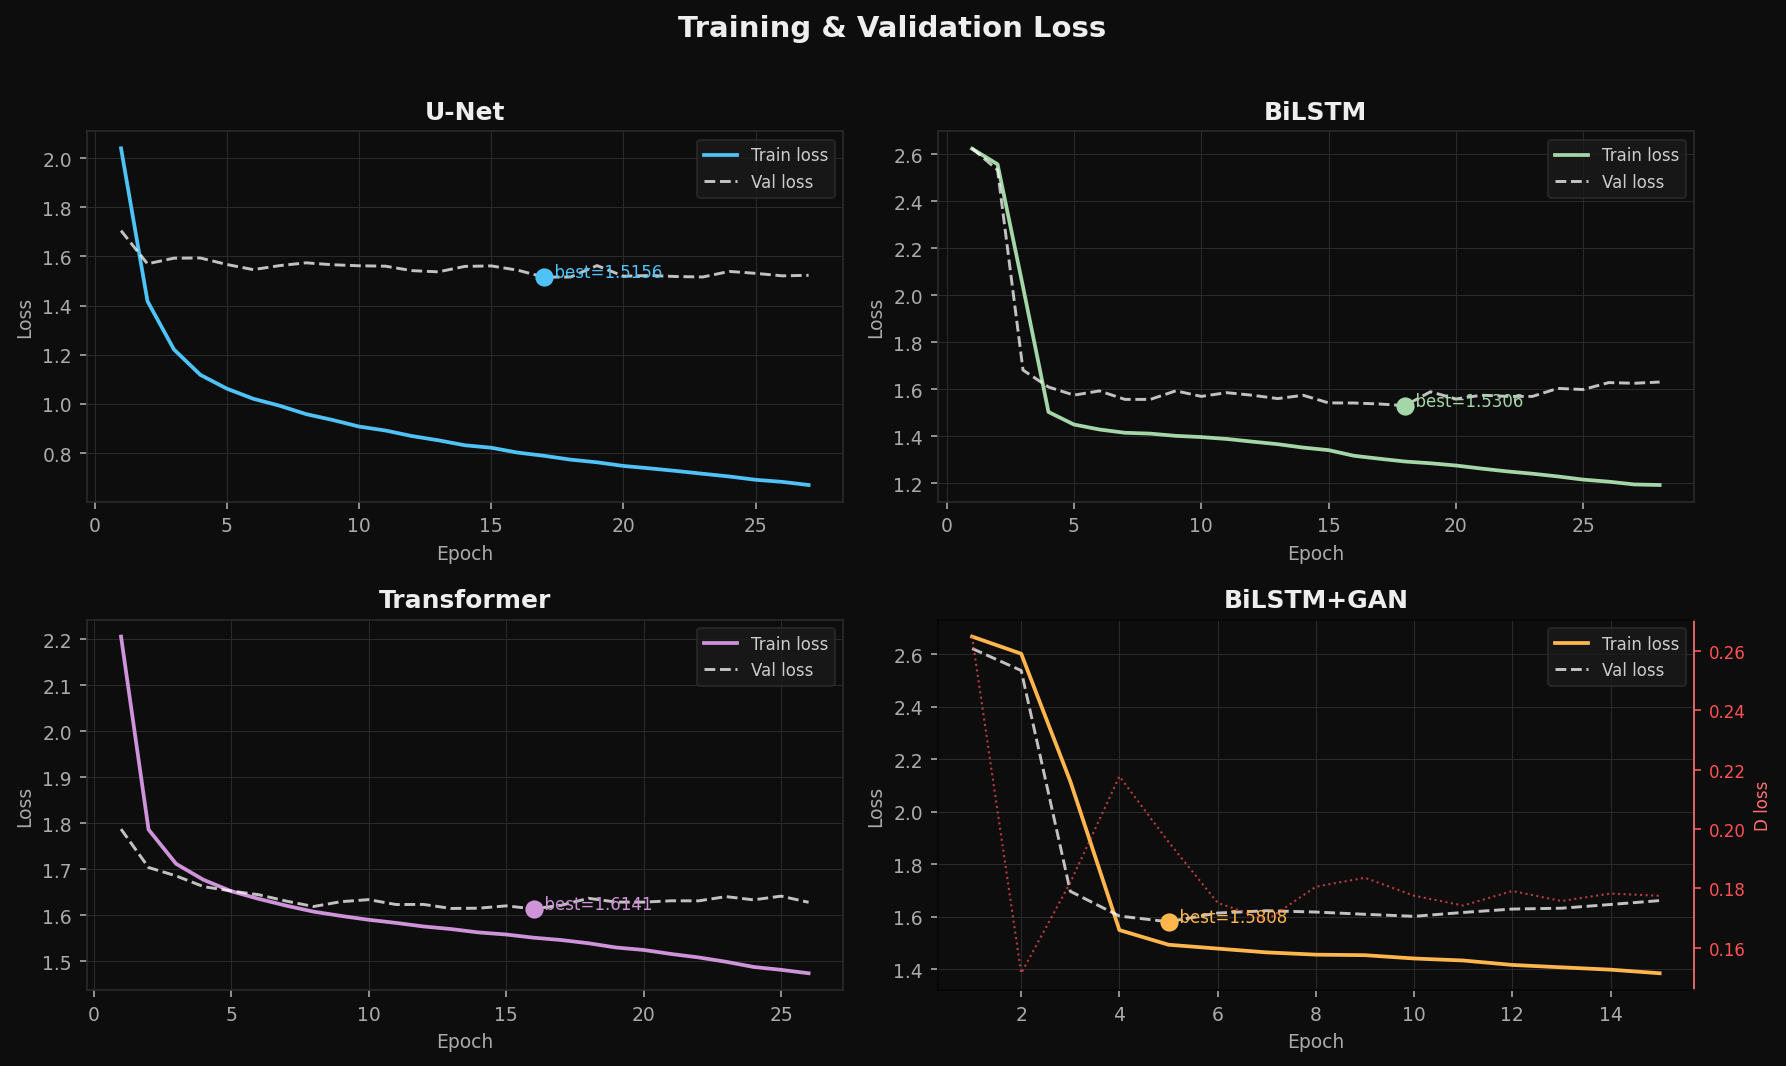
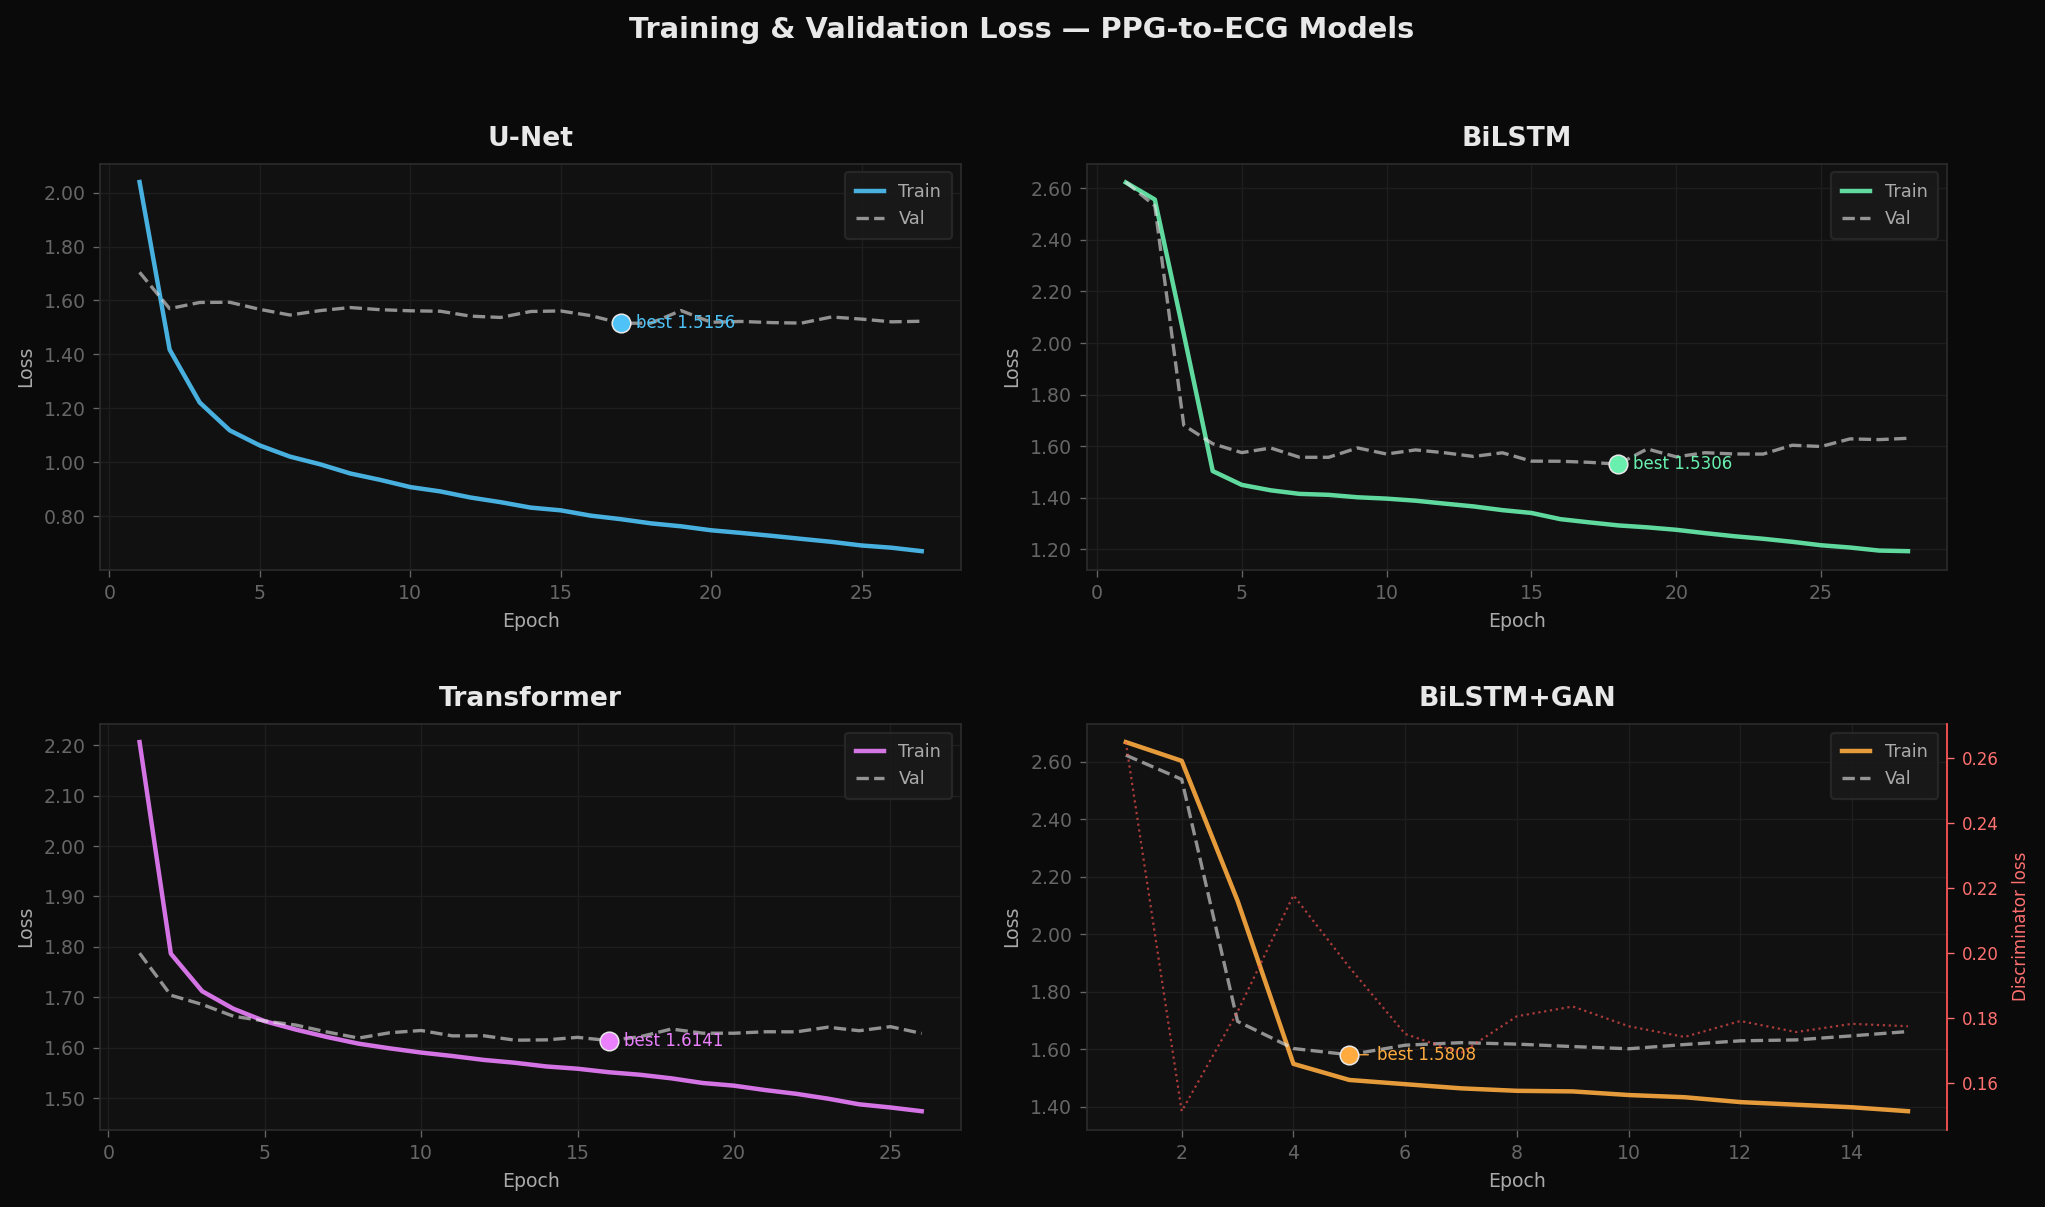
Fix README formatting and improve training curves figure

diff --git a/scripts/gen_training_curves.py b/scripts/gen_training_curves.py
@@ -4,23 +4,33 @@ from pathlib import Path
 import matplotlib
 matplotlib.use("Agg")
 import matplotlib.pyplot as plt
+import matplotlib.ticker as ticker
 import numpy as np
 
-ROOT = Path(__file__).resolve().parents[1]
+ROOT    = Path(__file__).resolve().parents[1]
 RESULTS = ROOT / "results"
-OUT = ROOT / "report" / "training_curves.png"
+OUT     = ROOT / "report" / "training_curves.png"
 
 MODELS = {
     "unet":        ("U-Net",        "#4fc3f7"),
-    "bilstm":      ("BiLSTM",       "#a5d6a7"),
-    "transformer": ("Transformer",  "#ce93d8"),
-    "bilstm_gan":  ("BiLSTM+GAN",   "#ffb74d"),
+    "bilstm":      ("BiLSTM",       "#69f0ae"),
+    "transformer": ("Transformer",  "#ea80fc"),
+    "bilstm_gan":  ("BiLSTM+GAN",   "#ffab40"),
 }
 
-BG = "#0d0d0d"
-GRID = "#2a2a2a"
+BG      = "#0a0a0a"
+PANEL   = "#111111"
+GRID    = "#1e1e1e"
+TICK    = "#666666"
+LABEL   = "#aaaaaa"
+WHITE   = "#e8e8e8"
 
-fig, axes = plt.subplots(2, 2, figsize=(12, 7))
+plt.rcParams.update({
+    "font.family":  "DejaVu Sans",
+    "axes.unicode_minus": False,
+})
+
+fig, axes = plt.subplots(2, 2, figsize=(13, 7.5))
 fig.patch.set_facecolor(BG)
 axes = axes.flatten()
 
@@ -36,54 +46,62 @@ for ax, (key, (name, color)) in zip(axes, MODELS.items()):
     history    = data["history"]
     epochs     = [h["epoch"] for h in history]
     val_loss   = [h["val_loss"] for h in history]
-
-    # GAN uses g_loss as train loss
     train_loss = [h.get("train_loss") or h.get("g_loss") for h in history]
 
-    ax.set_facecolor(BG)
+    # Panel styling
+    ax.set_facecolor(PANEL)
     for spine in ax.spines.values():
-        spine.set_edgecolor(GRID)
-    ax.tick_params(colors="#aaaaaa", labelsize=9)
-    ax.grid(True, color=GRID, linewidth=0.5)
-    ax.xaxis.label.set_color("#aaaaaa")
-    ax.yaxis.label.set_color("#aaaaaa")
-    ax.title.set_color("#eeeeee")
+        spine.set_edgecolor("#2a2a2a")
+        spine.set_linewidth(0.8)
+    ax.tick_params(colors=TICK, labelsize=8.5, length=3, width=0.6)
+    ax.grid(True, color=GRID, linewidth=0.6, linestyle="-")
+    ax.set_axisbelow(True)
 
-    ax.plot(epochs, train_loss, color=color,     linewidth=1.8, label="Train loss")
-    ax.plot(epochs, val_loss,   color="white",   linewidth=1.4, linestyle="--", alpha=0.75, label="Val loss")
+    # Loss curves
+    ax.plot(epochs, train_loss, color=color,  linewidth=2.0, label="Train", alpha=0.9)
+    ax.plot(epochs, val_loss,   color=WHITE,  linewidth=1.5, linestyle="--", alpha=0.6, label="Val")
 
-    # Mark best val epoch
+    # Best val marker
     best_idx = int(np.argmin(val_loss))
-    ax.scatter(epochs[best_idx], val_loss[best_idx], color=color, s=60, zorder=5)
-    ax.annotate(f"  best={val_loss[best_idx]:.4f}",
-                xy=(epochs[best_idx], val_loss[best_idx]),
-                color=color, fontsize=8)
+    bx, by   = epochs[best_idx], val_loss[best_idx]
+    ax.scatter(bx, by, color=color, s=70, zorder=6, edgecolors=WHITE, linewidths=0.7)
+    # annotation offset: go left if close to right edge
+    xoff = 0.5 if bx < epochs[-1] * 0.75 else -0.5
+    ha   = "left" if xoff > 0 else "right"
+    ax.annotate(f"best {by:.4f}",
+                xy=(bx, by), xytext=(bx + xoff, by),
+                color=color, fontsize=7.5, ha=ha, va="center",
+                arrowprops=dict(arrowstyle="-", color=color, lw=0.6))
 
-    # GAN: discriminator loss on secondary y-axis
-    d_loss_vals = [h.get("d_loss") for h in history]
-    if any(v is not None for v in d_loss_vals):
-        history_has_d = True
-        d_loss_vals = [v for v in d_loss_vals if v is not None]
-    else:
-        history_has_d = False
-
-    if history_has_d:
+    # GAN discriminator secondary axis
+    d_vals = [h.get("d_loss") for h in history]
+    if any(v is not None for v in d_vals):
+        d_vals = [v for v in d_vals if v is not None]
         ax2 = ax.twinx()
-        ax2.set_facecolor(BG)
-        ax2.tick_params(colors="#ff7070", labelsize=8)
-        ax2.spines["right"].set_edgecolor("#ff7070")
-        ax2.plot(epochs[:len(d_loss_vals)], d_loss_vals, color="#ff5252", linewidth=1.0,
-                 linestyle=":", alpha=0.7, label="Discriminator loss")
-        ax2.set_ylabel("D loss", color="#ff7070", fontsize=8)
-        ax2.yaxis.label.set_color("#ff7070")
-        ax2.tick_params(axis="y", colors="#ff5252")
+        ax2.set_facecolor(PANEL)
+        ax2.spines["right"].set_edgecolor("#ff5252")
+        ax2.spines["right"].set_linewidth(0.8)
+        for s in ["top","left","bottom"]:
+            ax2.spines[s].set_visible(False)
+        ax2.tick_params(axis="y", colors="#ff7070", labelsize=7.5, length=3, width=0.6)
+        ax2.plot(epochs[:len(d_vals)], d_vals, color="#ff5252",
+                 linewidth=1.0, linestyle=":", alpha=0.65, label="Discriminator")
+        ax2.set_ylabel("Discriminator loss", color="#ff7070", fontsize=7.5, labelpad=6)
 
-    ax.set_title(name, fontsize=12, fontweight="bold")
-    ax.set_xlabel("Epoch", fontsize=9)
-    ax.set_ylabel("Loss", fontsize=9)
-    ax.legend(fontsize=8, facecolor="#1a1a1a", edgecolor=GRID, labelcolor="#cccccc")
+    # Axis labels & title
+    ax.set_title(name, color=WHITE, fontsize=12, fontweight="bold", pad=8)
+    ax.set_xlabel("Epoch", color=LABEL, fontsize=8.5, labelpad=4)
+    ax.set_ylabel("Loss", color=LABEL, fontsize=8.5, labelpad=4)
+    ax.yaxis.set_major_formatter(ticker.FormatStrFormatter("%.2f"))
 
-fig.suptitle("Training & Validation Loss", color="#eeeeee", fontsize=14, fontweight="bold", y=1.01)
-plt.tight_layout()
-plt.savefig(OUT, dpi=150, bbox_inches="tight", facecolor=BG)
+    # Legend
+    leg = ax.legend(fontsize=8, facecolor="#1a1a1a", edgecolor="#2a2a2a",
+                    labelcolor=LABEL, loc="upper right",
+                    framealpha=0.85, borderpad=0.6, handlelength=1.6)
+
+fig.suptitle("Training & Validation Loss — PPG-to-ECG Models",
+             color=WHITE, fontsize=13, fontweight="bold", y=1.01)
+
+plt.tight_layout(pad=1.5, h_pad=2.2, w_pad=1.8)
+plt.savefig(OUT, dpi=160, bbox_inches="tight", facecolor=BG)
 print(f"Saved: {OUT}")

diff --git a/README.md b/README.md
@@ -1,6 +1,6 @@
 # PPG-to-ECG Reconstruction
 
-<img width="800" height="336" alt="ezgif-30604901485443b5" src="https://github.com/user-attachments/assets/f604c26a-496a-40db-bd4d-b6db3990387b" />
+<img width="800" height="336" alt="ezgif-30604901485443b5" src="https://github.com/user-attachments/assets/f604c26a-496a40db-bd4d-b6db3990387b" />
 
 Comparative study of deep learning architectures for reconstructing single-lead ECG (Lead II) from photoplethysmography (PPG) signals.  
 Course Project: CMPSCI 8770 Introduction to Neural Networks, University of Missouri.
@@ -9,6 +9,7 @@ Course Project: CMPSCI 8770 Introduction to Neural Networks, University of Misso
 
 <img width="800" height="336" alt="ezgif-39e84b7ef2fda190" src="https://github.com/user-attachments/assets/77b16c34-c7b7-4814-80fe-aea3241b013b" />
 
+---
 
 ## Results
 
@@ -25,7 +26,7 @@ Course Project: CMPSCI 8770 Introduction to Neural Networks, University of Misso
 
 ## Training Curves
 
-![Training and Validation Loss](report/trainingcurves.png)
+![Training and Validation Loss](report/training_curves.png)
 
 | Model       | Best Val Loss | Stopped Epoch | Early Stop Patience |
 |-------------|---------------|---------------|---------------------|
@@ -34,16 +35,15 @@ Course Project: CMPSCI 8770 Introduction to Neural Networks, University of Misso
 | BiLSTM+GAN  | 1.5808        | 5 / 15        | 10                  |
 | Transformer | 1.6141        | 16 / 26       | 10                  |
 
-GAN discriminator collapsed early (dloss curve visible in bottom-right panel)  dataset too small (3,184 segments) for stable adversarial training.
+GAN discriminator collapsed early (d_loss curve visible in bottom-right panel) — dataset too small (3,184 segments) for stable adversarial training.
 
 ---
-
 
 <img width="1376" height="768" alt="image" src="https://github.com/user-attachments/assets/177bdbd8-f2d8-4358-8b54-a4a1bf9ed91e" />
 
 ## Model Architectures
 
-### 1D U-Net  2,710,753 parameters
+### 1D U-Net — 2,710,753 parameters
 
 ```
 Input (B, 1, 500)
@@ -60,24 +60,24 @@ Encoder captures multi-scale PPG features; skip connections preserve temporal al
 
 ---
 
-### BiLSTM Seq2Seq  892,161 parameters
+### BiLSTM Seq2Seq — 892,161 parameters
 
 ```
 Input (B, 1, 500) → squeeze → (B, 500)
   Feature projection  Linear(1→32)
   Encoder BiLSTM      2 layers, hidden=128, bidirectional
-    encoderout: (B, 500, 256)
+    encoder_out: (B, 500, 256)
   Decoder LSTM        2 layers, hidden=256
-    + Scaled dot-product attention over encoderout
+    + Scaled dot-product attention over encoder_out
   Output projection   Linear(256→1)
 Output (B, 1, 500)
 ```
 
-Note: Bahdanau attention replaced with scaled dot-product (OOM on B=64, T=500 with 8 GB VRAM). Best overall model  lowest RMSE and highest Pearson r.
+Note: Bahdanau attention replaced with scaled dot-product (OOM on B=64, T=500 with 8 GB VRAM). Best overall model — lowest RMSE and highest Pearson r.
 
 ---
 
-### Transformer Encoder-Decoder  ~800,000 parameters
+### Transformer Encoder-Decoder — ~800,000 parameters
 
 ```
 Input (B, 1, 500)
@@ -89,23 +89,23 @@ Input (B, 1, 500)
 Output (B, 1, 500)
 ```
 
-Weakest on morphology (R-peak F1=0.457) and RR error (72 ms). Data-efficiency problem  Transformers need larger datasets than BIDMC's 3,184 training segments.
+Weakest on morphology (R-peak F1=0.457) and RR error (72 ms). Data-efficiency problem — Transformers need larger datasets than BIDMC's 3,184 training segments.
 
 ---
 
-### BiLSTM + GAN  892 K (G) + 42 K (D) parameters
+### BiLSTM + GAN — 892 K (G) + 42 K (D) parameters
 
-Generator identical to BiLSTM above. Discriminator: 4× `Conv1d+LeakyReLU` with spectral normalisation → `AdaptiveAvgPool → Linear(128,1)`. Discriminator collapsed despite spectral normalisation  honest negative result.
+Generator identical to BiLSTM above. Discriminator: 4× `Conv1d+LeakyReLU` with spectral normalisation → `AdaptiveAvgPool → Linear(128,1)`. Discriminator collapsed despite spectral normalisation — honest negative result.
 
 ---
 
-## Beat Classifier (MIT-BIH ResNet1D)  530,273 parameters
+## Beat Classifier (MIT-BIH ResNet1D) — 530,273 parameters
 
 Trained on MIT-BIH Arrhythmia Database (48 records, 109,375 beats).  
 AAMI 5-class: **N** Normal · **S** Supraventricular ectopic · **V** Ventricular ectopic · **F** Fusion · **Q** Unknown/paced
 
 ```
-Input (1, 250)   ±1 s window around R-peak at 125 Hz
+Input (1, 250)  — ±1 s window around R-peak at 125 Hz
   Stem   Conv1d(1,32,k=15,s=2) → BN → ReLU
   Block1 ResBlock(32,32)
   Block2 ResBlock(32,64,  stride=2)
@@ -116,8 +116,8 @@ Input (1, 250)   ±1 s window around R-peak at 125 Hz
   Head   Linear(128,5)
 ```
 
-**Val accuracy: 99.4%**  30 epochs, AdamW lr=1e-3, cosine annealing, balanced class weights.  
-Checkpoint: `app/checkpoints/mitbihresnet1d.pt` (2.1 MB). Retrain in ~1 min: `python app/trainmitbih.py`.
+**Val accuracy: 99.4%** — 30 epochs, AdamW lr=1e-3, cosine annealing, balanced class weights.  
+Checkpoint: `app/checkpoints/mitbih_resnet1d.pt` (2.1 MB). Retrain in ~1 min: `python app/train_mitbih.py`.
 
 ---
 
@@ -136,8 +136,6 @@ Checkpoint: `app/checkpoints/mitbihresnet1d.pt` (2.1 MB). Retrain in ~1 min: `py
 
 ---
 
-
-
 ## Quickstart
 
 ```bash
@@ -147,7 +145,7 @@ conda activate ppg2ecg
 pip install -r requirements.txt
 
 # 2. Download data
-bash scripts/downloadbidmc.sh
+bash scripts/download_bidmc.sh
 
 # 3. Preprocess
 python src/data/preprocess.py
@@ -164,7 +162,7 @@ conda activate ppg2ecg && streamlit run app/app.py
 
 ### Train beat classifier (one-time)
 ```bash
-python app/trainmitbih.py
+python app/train_mitbih.py
 ```
 
 ---
@@ -175,14 +173,14 @@ python app/trainmitbih.py
 L = L1(ŷ, y) + 0.5 × L1(|STFT(ŷ)|, |STFT(y)|)
 ```
 
-STFT: nfft=128, hop=32, Hann window. Encourages both time-domain accuracy and spectral fidelity.
+STFT: n_fft=128, hop=32, Hann window. Encourages both time-domain accuracy and spectral fidelity.
 
 ---
 
 ## Training Protocol
 
-- Optimiser: AdamW (lr=1e-4, weightdecay=1e-5)
-- Schedule: cosine annealing, Tmax=100
+- Optimiser: AdamW (lr=1e-4, weight_decay=1e-5)
+- Schedule: cosine annealing, T_max=100
 - Gradient clipping: 1.0
 - Early stopping: patience=10 on val loss
 - Batch size: 64 · Seed: 42
@@ -209,18 +207,18 @@ ppg2ecg/
 │   ├── app.py                  # Streamlit demo (hospital monitor UI)
 │   ├── inference.py            # Sliding-window BiLSTM PPG→ECG
 │   ├── classifier.py           # Rhythm classification (ResNet1D + rules)
-│   ├── trainmitbih.py         # One-time MIT-BIH beat classifier training
+│   ├── train_mitbih.py         # One-time MIT-BIH beat classifier training
 │   └── checkpoints/
-│       └── mitbihresnet1d.pt  # Beat classifier (530K params, 99.4% acc)
+│       └── mitbih_resnet1d.pt  # Beat classifier (530K params, 99.4% acc)
 ├── scripts/
-│   ├── downloadbidmc.sh
-│   ├── slurmtrain.sh
-│   └── gentrainingcurves.py
+│   ├── download_bidmc.sh
+│   ├── slurm_train.sh
+│   └── gen_training_curves.py
 ├── configs/
 │   ├── unet.yaml · bilstm.yaml · transformer.yaml
 ├── report/
 │   ├── report.md
-│   └── trainingcurves.png
+│   └── training_curves.png
 └── checkpoints/
     └── bilstm/best.pt          # Best PPG→ECG model (892K params)
 ```